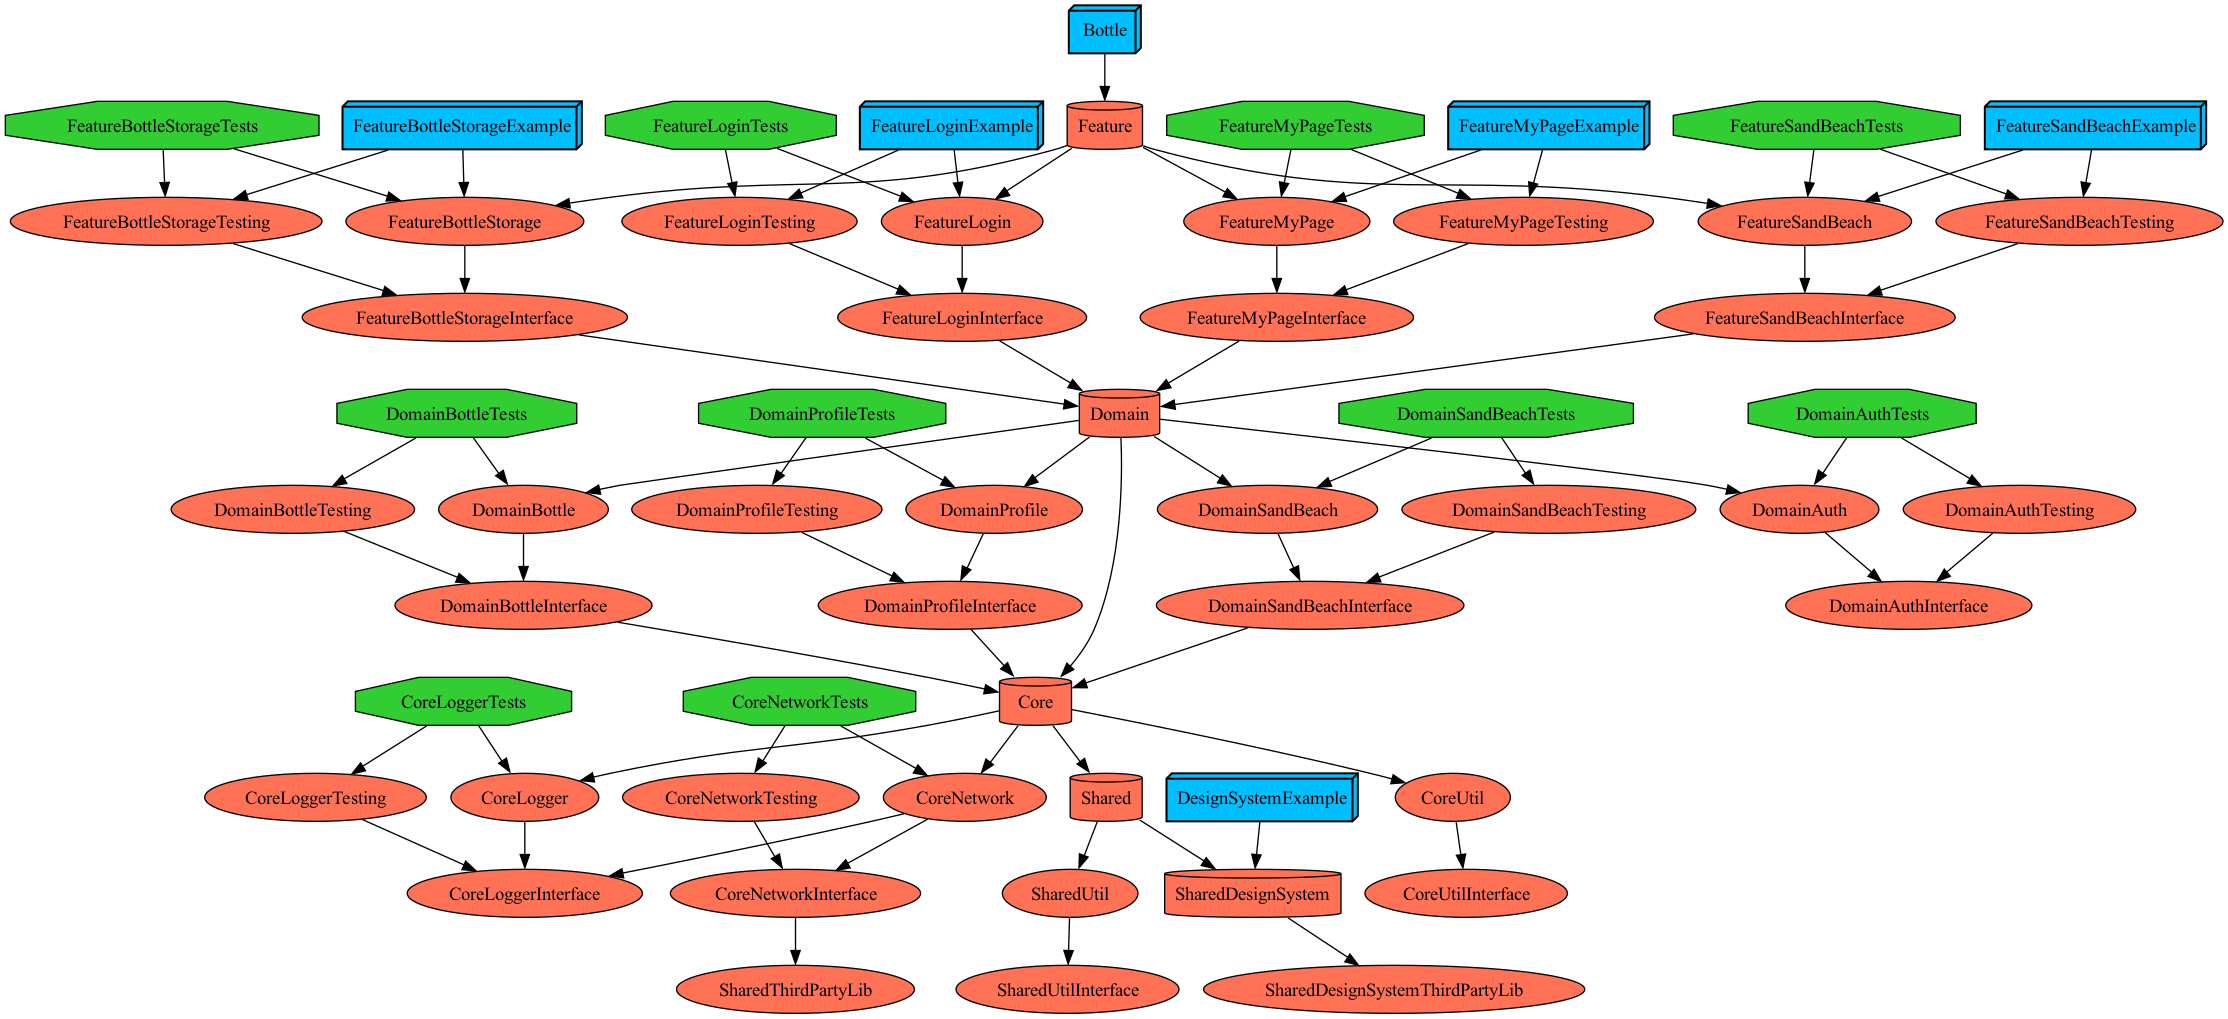
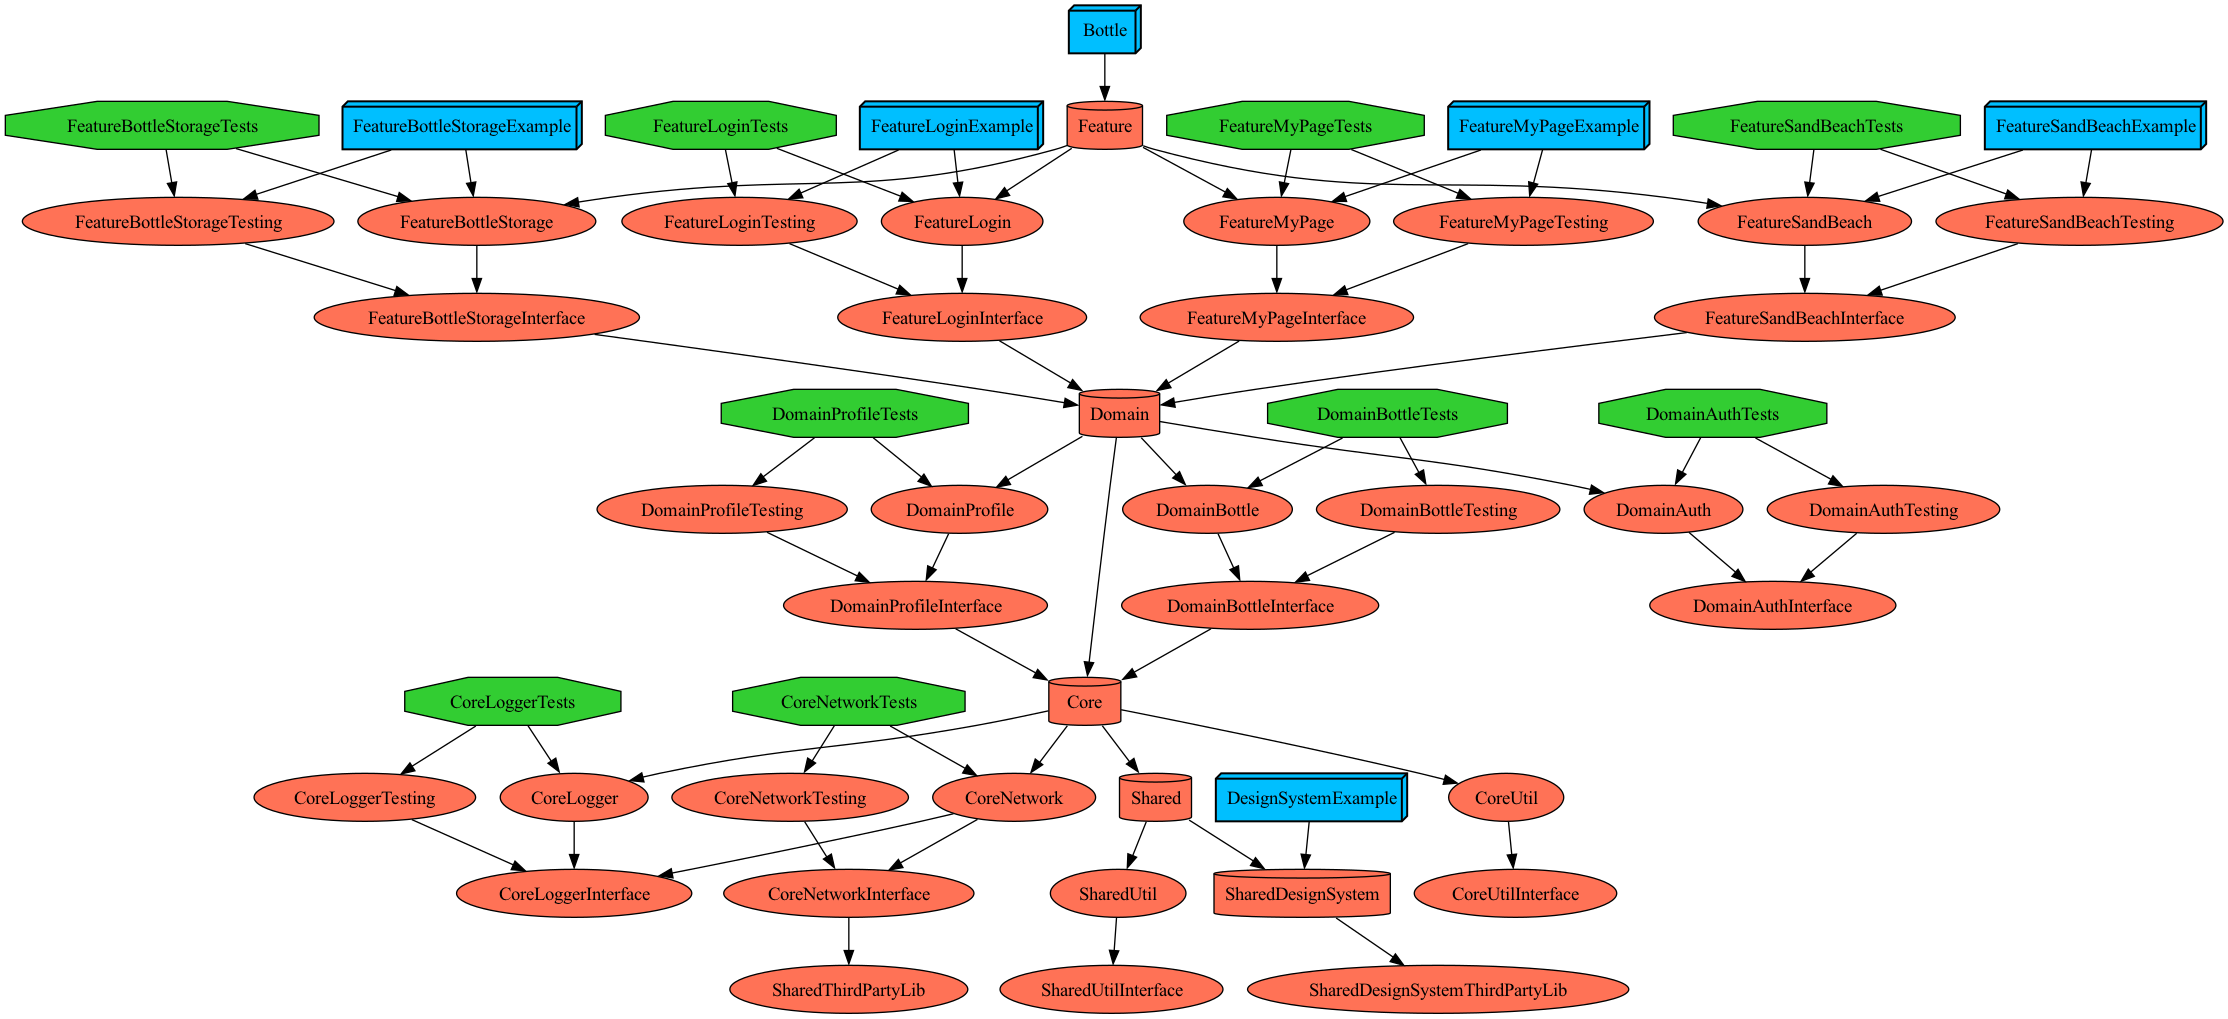
feat: DomainSandBeach 모듈 삭제

Changed region(s): [[0.0619, 0.2738, 0.9601, 1.0], [0.0, 0.1521, 0.2787, 0.2738], [0.1548, 0.3651, 0.2787, 0.4563]]

diff --git a/Plugins/DependencyPlugin/ProjectDescriptionHelpers/Modules.swift b/Plugins/DependencyPlugin/ProjectDescriptionHelpers/Modules.swift
@@ -42,7 +42,6 @@ public extension ModulePath {
     enum Domain: String, CaseIterable {
         case Bottle
         case Profile
-        case SandBeach
         case Auth
 
         public static let name: String = "Domain"
